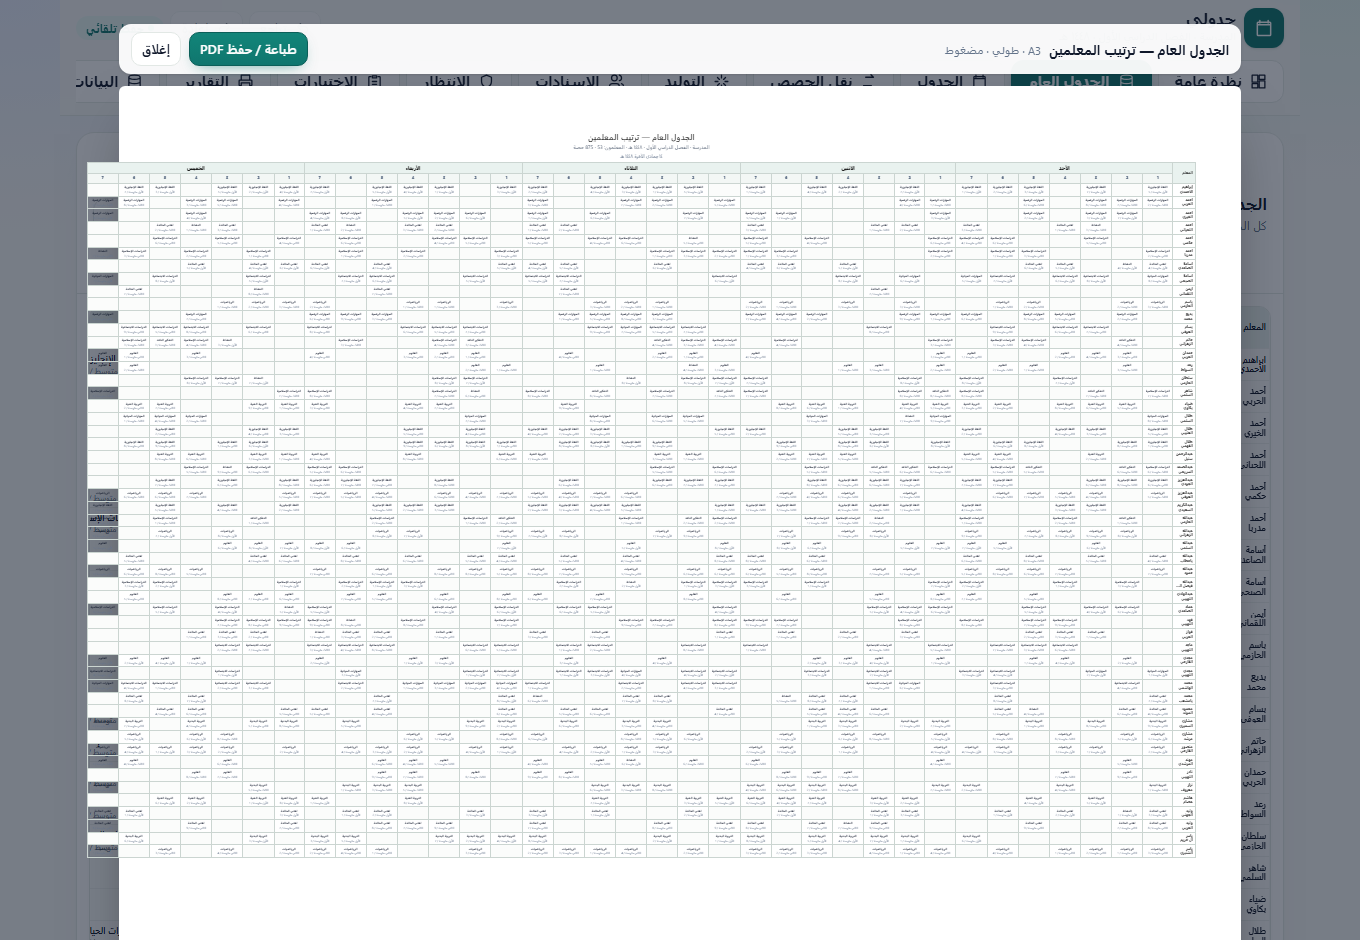
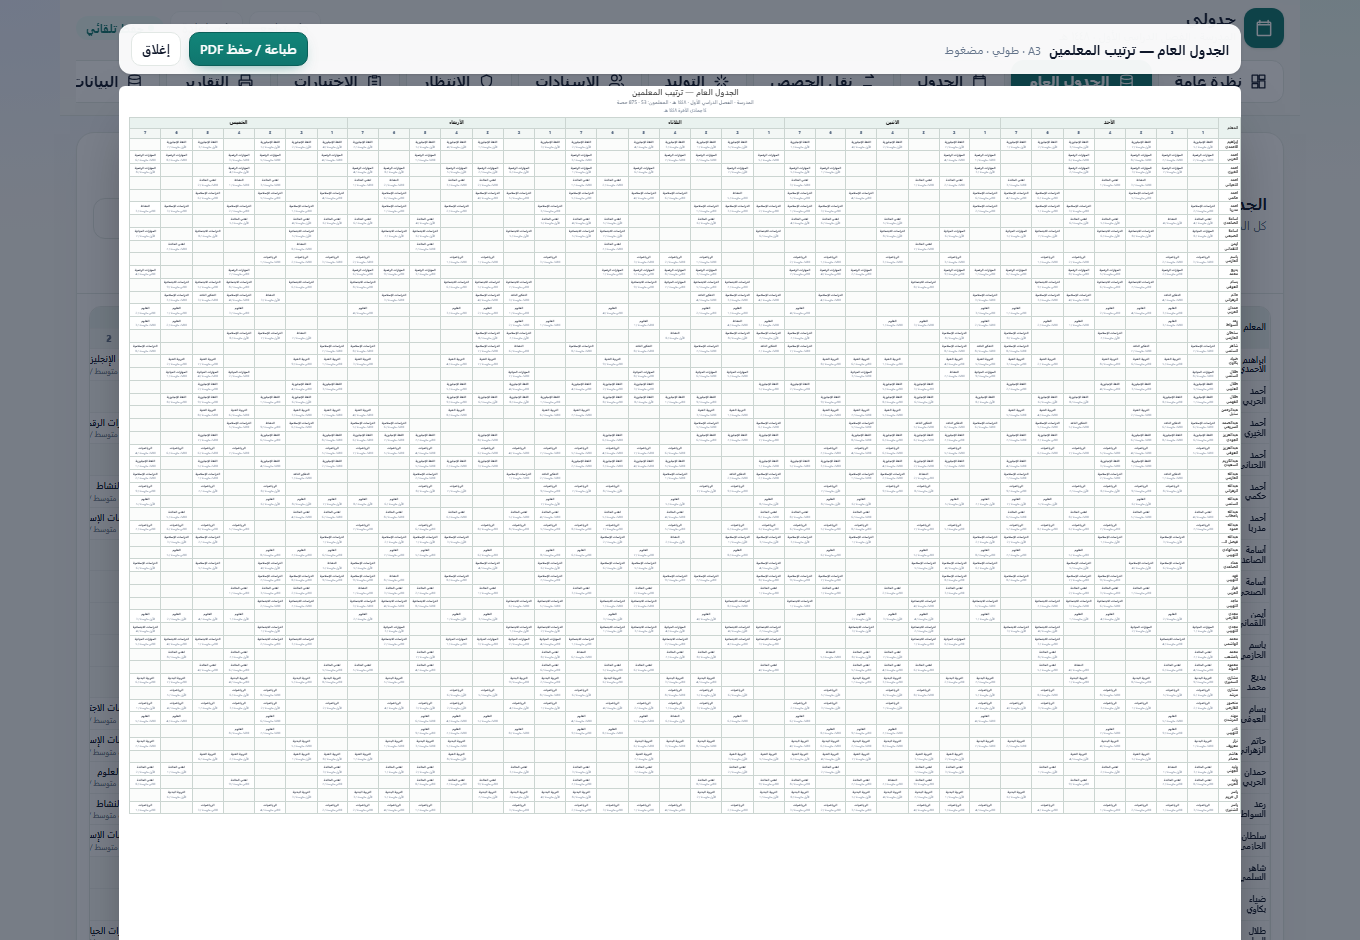
الجدول العام: هوامش صفر وملء الصفحة، وضبط دقيق يمنع القص أو الصفحة الزائدة

Changed region(s): [[0.0618, 0.0926, 0.9265, 0.9255]]

diff --git a/src/components/MasterTable.tsx b/src/components/MasterTable.tsx
@@ -171,20 +171,32 @@ export function FitToPage({ orientation, children }: { orientation: 'portrait' |
     if (!outer || !inner) return;
     const toPx = (mm: number) => (mm * 96) / 25.4;
     const [pageWidth, pageHeight] = orientation === 'portrait' ? [297, 420] : [420, 297];
-    const availableWidth = toPx(pageWidth - 8);
-    const availableHeight = toPx(pageHeight - 8);
+    // هوامش الصفحة صفر؛ نترك هامش أمان 2مم لتفادي الكسر أو القص عند الطباعة.
+    const availableWidth = toPx(pageWidth - 2);
+    const availableHeight = toPx(pageHeight - 2);
 
-    // قياس المحتوى بحجمه الطبيعي (بدون تكبير) لتفادي التغذية الراجعة.
+    // نقيس على أرض الواقع ثم نصحّح: عرض الجدول الداخلي يتغيّر قليلًا مع نسبة التصغير
+    // بسبب تقريب عرض الأعمدة، لذا نكرّر الضبط حتى يدخل فعلًا.
     const previousZoom = outer.style.zoom;
     outer.style.zoom = '1';
-    const naturalWidth = inner.scrollWidth || inner.getBoundingClientRect().width;
-    const naturalHeight = inner.scrollHeight || inner.getBoundingClientRect().height;
+    let width = inner.getBoundingClientRect().width;
+    let height = inner.getBoundingClientRect().height;
+    if (!width || !height) {
+      outer.style.zoom = previousZoom || '1';
+      return;
+    }
+    let scale = Math.min(availableWidth / width, availableHeight / height, 1);
+    for (let attempt = 0; attempt < 6; attempt++) {
+      outer.style.zoom = String(scale);
+      width = inner.getBoundingClientRect().width;
+      height = inner.getBoundingClientRect().height;
+      if (width <= availableWidth && height <= availableHeight) break;
+      scale *= Math.min(availableWidth / width, availableHeight / height) * 0.998;
+    }
     outer.style.zoom = previousZoom || '1';
 
-    if (!naturalWidth || !naturalHeight) return;
-    const next = Math.min(availableWidth / naturalWidth, availableHeight / naturalHeight, 1);
-    const rounded = Number(next.toFixed(4));
-    if (Math.abs(rounded - zoom) > 0.001) setZoom(rounded);
+    const rounded = Number(scale.toFixed(4));
+    if (Math.abs(rounded - zoom) > 0.002) setZoom(rounded);
   }, [orientation, zoom, children]);
 
   return (

diff --git a/src/styles.css b/src/styles.css
@@ -165,7 +165,6 @@ body {
 
 .master-print table {
   width: max-content;
-  min-width: 100%;
   font-size: 7px;
 }
 
@@ -548,6 +547,11 @@ body {
 }
 
 @media screen {
+  .print-sheet[data-edge='true'] {
+    padding: 0;
+    overflow: hidden;
+  }
+
   .print-sheet[data-orientation='landscape'] {
     width: 297mm;
     min-height: 210mm;
@@ -627,12 +631,12 @@ body {
 
   @page p-a3 {
     size: A3 portrait;
-    margin: 4mm;
+    margin: 0;
   }
 
   @page l-a3 {
     size: A3 landscape;
-    margin: 4mm;
+    margin: 0;
   }
 
   @page public-landscape {

diff --git a/src/components/ui.tsx b/src/components/ui.tsx
@@ -152,6 +152,7 @@ export function PrintOverlay() {
         data-orientation={options.orientation ?? 'portrait'}
         data-size={size}
         data-compact={options.compact ? 'true' : 'false'}
+        data-edge={options.edge ? 'true' : 'false'}
       >
         {printDoc.content}
       </div>

diff --git a/src/views/MasterView.tsx b/src/views/MasterView.tsx
@@ -44,6 +44,7 @@ export function MasterView() {
                     orientation: mode === 'teacher' ? 'portrait' : 'landscape',
                     size: 'A3',
                     compact: true,
+                    edge: true,
                   },
                 )
               }

diff --git a/src/store.tsx b/src/store.tsx
@@ -21,6 +21,8 @@ export interface PrintOptions {
   orientation?: 'portrait' | 'landscape';
   size?: 'A4' | 'A3';
   compact?: boolean;
+  /** بلا هوامش داخلية (لجداول تملأ الصفحة بالكامل). */
+  edge?: boolean;
 }
 
 interface StoreValue {

diff --git a/README.md b/README.md
@@ -25,7 +25,7 @@
 - **قيود البدنية قابلة للضبط**: سقف فصول في الحصة (٣ افتراضيًا) مع منع وجود الثالث المتوسط ضمن مجموعة من ثلاثة فأكثر، و**لا تُجدول التربية البدنية في الحصة السابعة إطلاقًا**.
 - **نقل الحصص**: اعرض جدول المعلم، اضغط الحصة ثم الموعد الجديد؛ يعرض النظام الحصة المنقولة والحصة المتأثرة والجدول بعد النقل، ويفحص التعارضات (تعارض المعلم، يوم الراحة، قيود البدنية) قبل التطبيق — لا يُطبَّق شيء حتى «اعتماد النقل».
 - **محرك مستقل**: يعمل في Web Worker فلا تتجمد الواجهة، ويعرض تقدمًا حقيقيًا وتقريرًا قبل التطبيق.
-- **الجدول العام**: جدول مصفوفي لكل المدرسة بخيارين — **ترتيب المعلمين** (صف لكل معلم) أو **ترتيب الفصول** (صف لكل فصل) — مع بحث بالاسم. كل جدول يُضغط تلقائيًا إلى **صفحة واحدة**: المعلمون على A3 طولية، والفصول على A3 عرضية، بهوامش ٤مم وخط مصغّر ليتسع كامل الجدول.
+- **الجدول العام**: جدول مصفوفي لكل المدرسة بخيارين — **ترتيب المعلمين** (صف لكل معلم) أو **ترتيب الفصول** (صف لكل فصل) — مع بحث بالاسم. كل جدول يُضغط تلقائيًا إلى **صفحة واحدة**: المعلمون على A3 طولية، والفصول على A3 عرضية، بلا هوامش تقريبًا وخط مصغّر ليتسع كامل الجدول.
 - **جدول الفصل والمعلم**: عرض أسبوعي ملوّن، توقيت الحصص، تصدير CSV، وطباعة A4.
 - **الانتظار والغطاء**: تحديد الغائبين، توزيع بدلاء تلقائي مع مراعاة التخصص والنصاب، تعديل يدوي، رسالة واتساب جاهزة، وطباعة بيان الانتظار.
 - **الاختبارات**: توليد جدول الفترية (كل المواد) والرسمية (المواد الأساسية) بحد اختبارين يوميًا وبلا تعارض إشراف.
@@ -113,3 +113,4 @@ git add .github/workflows/deploy.yml && git commit -m "ci: deploy" && git push
 ## الترخيص
 
 MIT
+
